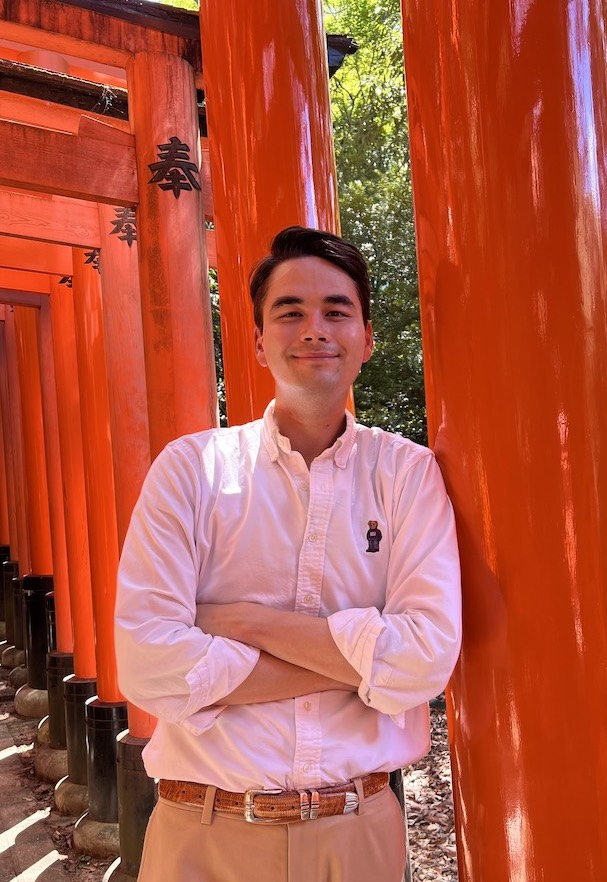
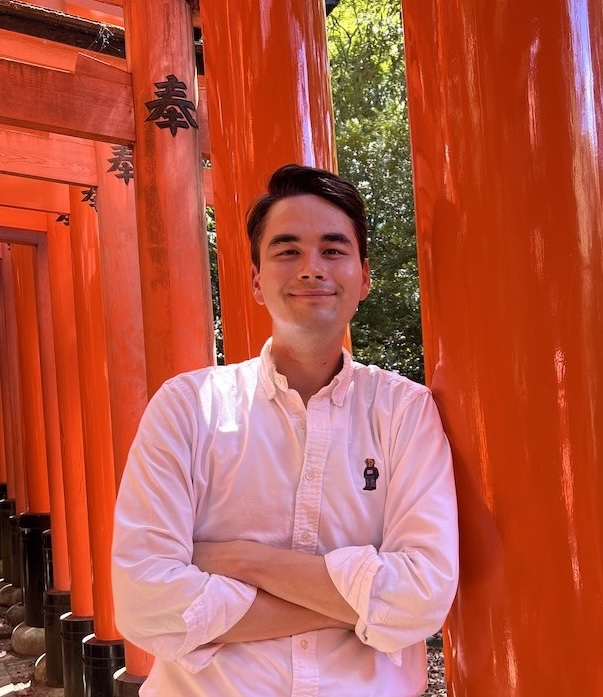
Dec24a2

diff --git a/research.md b/research.md
@@ -64,7 +64,7 @@ Global models of atmospheric chemistry are computationally expensive. The chemic
 
 
 
-<font size="+2"><p align="center">Data-driven Air Pollution Sensors</p></font>
+<font size="+2"><p align="center">Data-Driven Air Pollution Sensors</p></font>
 <!-- # Optimal and equitable placement of PM<sub>2.5</sub> air quality monitors -->
 
 <figure style="border: 2px solid #000; padding: 10px; border-radius: 5px;">

diff --git a/aboutMe.md b/aboutMe.md
@@ -7,7 +7,7 @@ comments: false
 ---
 
 <figure>
-<img src="/assets/img/bigsur.jpg" alt="tori fig">
+<img src="/assets/img/tori.jpg" alt="tori fig">
 </figure>
 
 <br />
